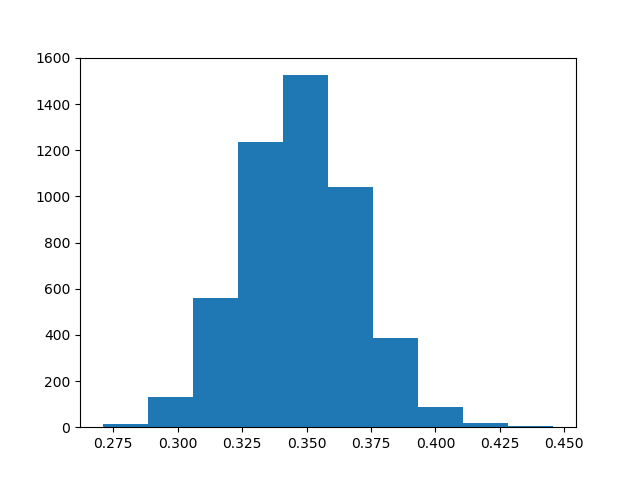
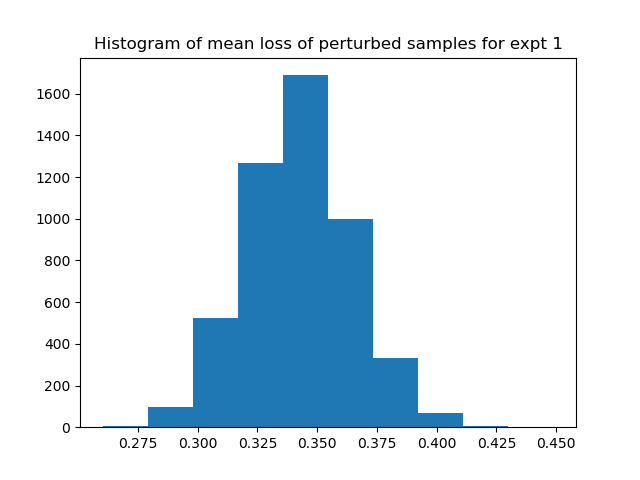
fair expt setup

diff --git a/adversarial_sample.py b/adversarial_sample.py
@@ -7,10 +7,7 @@ import utils
 import time
 import multiprocessing as mp
 import dill
-import random
-import matplotlib.pyplot as plt
-import scipy
-plt.ioff()
+
 
 seed = 1
 dataset_orig_train, dataset_orig_test = preprocess_adult_data(seed = seed)
@@ -51,13 +48,16 @@ x_unprotected_train, x_unprotected_test = tf.cast(x_unprotected_train, dtype = t
 y_train, y_test = tf.one_hot(y_train, 2), tf.one_hot(y_test, 2)
 
 init_graph = utils.ClassifierGraph(50, 2)
-graph = cl.Classifier(init_graph, x_unprotected_train, y_train, x_unprotected_test, y_test, num_steps = 1000)
+#graph = cl.Classifier(init_graph, x_unprotected_train, y_train, x_unprotected_test, y_test, num_steps = 1000) # use for unfair algo
+graph = cl.Classifier(init_graph, tf.matmul(x_unprotected_train, unprotected_directions), 
+                        y_train, tf.matmul(x_unprotected_test, unprotected_directions), y_test, num_steps = 1000) # for fair algo
 
 unprotected_directions = tf.cast(unprotected_directions, dtype = tf.float32)
 
 def sample_perturbation(data_point, regularizer = 1e-2, learning_rate = 1e-4, num_steps = 20):
     x, y = data_point
     x = tf.reshape(x, (1, -1))
+    x = np.matmul(x, unprotected_directions) # Remove if not trying to make algo fair
     y = tf.reshape(y, (1, -1))
     x_start = x
     for _ in range(num_steps):
@@ -83,11 +83,9 @@ end_time = time.time()
 perturbed_test_samples = np.array(perturbed_test_samples)
 
 
-
-filename = 'adversarial-points/perturbed_test_points1.npy'
-imagename = 'adversarial-points/graph1.png'
-histplot = 'adversarial-points/perturbed-mean-entropy-hist1.png'
-qqplot = 'adversarial-points/perturbed-mean-entropy-qqplot1.png'
+expt = 1
+filename = f'adversarial-points/perturbed_test_points{expt}.npy'
+imagename = f'adversarial-points/graph{expt}.png'
 
 
 np.save(filename, perturbed_test_samples)
@@ -96,39 +94,5 @@ input = tf.keras.Input(shape=(39,), dtype='float32', name='input')
 output = graph.call(input)
 model = tf.keras.Model(inputs=input, outputs=output)
 tf.keras.utils.plot_model(model, to_file = imagename, show_shapes=True)
-
-
-expt = 1
-filename = f'adversarial-points/perturbed_test_points{expt}.npy'
-histplot = f'adversarial-points/perturbed-mean-entropy-hist{expt}.png'
-qqplot = f'adversarial-points/perturbed-mean-entropy-qqplot{expt}.png'
-
-
-
-
-def error(data):
-    x, y = data
-    x = tf.cast(x, dtype = tf.float32)
-    return utils.EntropyLoss(y, graph(x))
-
-perturbed_error = [error(data) for data in zip(perturbed_test_samples, y_test)]
-perturbed_error = [x.numpy() for x in perturbed_error]
-
-
-def perturb_mean(n = 9045):
-    index = random.sample(range(n), 400)
-    srswr_perturb_errors =[perturbed_error[i] for i in index]
-    return np.mean(srswr_perturb_errors)
-
-perturbed_means = [perturb_mean() for _ in range(5000)]
-plt.hist(perturbed_means)
-plt.savefig(histplot)
-plt.title(f'Histogram of mean loss of perturbed samples for expt {expt}')
-plt.close()
-
-
-scipy.stats.probplot(perturbed_means, plot=plt)
-plt.title(f'Normal qq-plot of mean loss of perturbed samples for expt {expt}')
-plt.savefig(qqplot)
 
 

diff --git a/create_plots.py b/create_plots.py
@@ -83,8 +83,8 @@ def perturb_mean(n = 9045):
 
 perturbed_means = [perturb_mean() for _ in range(5000)]
 plt.hist(perturbed_means)
-plt.savefig(histplot)
 plt.title(f'Histogram of mean loss of perturbed samples for expt {expt}')
+plt.savefig(histplot)
 plt.close()
 
 
